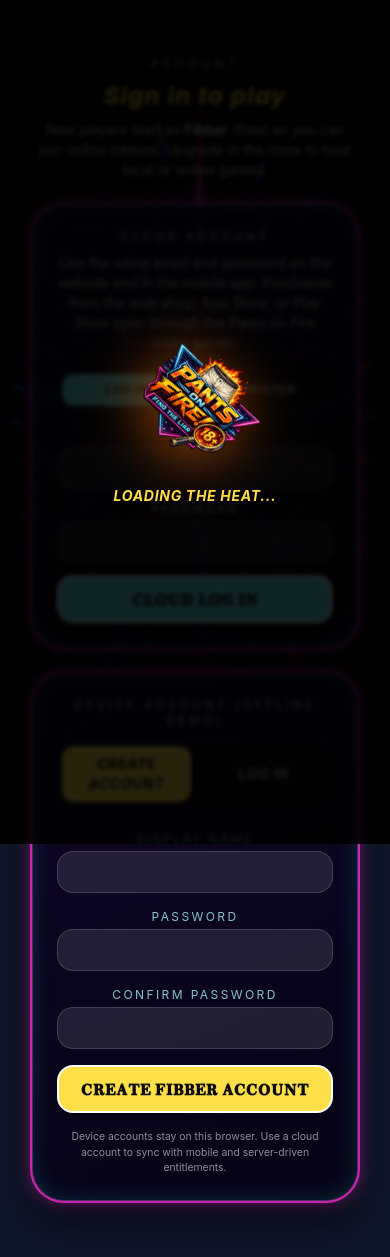
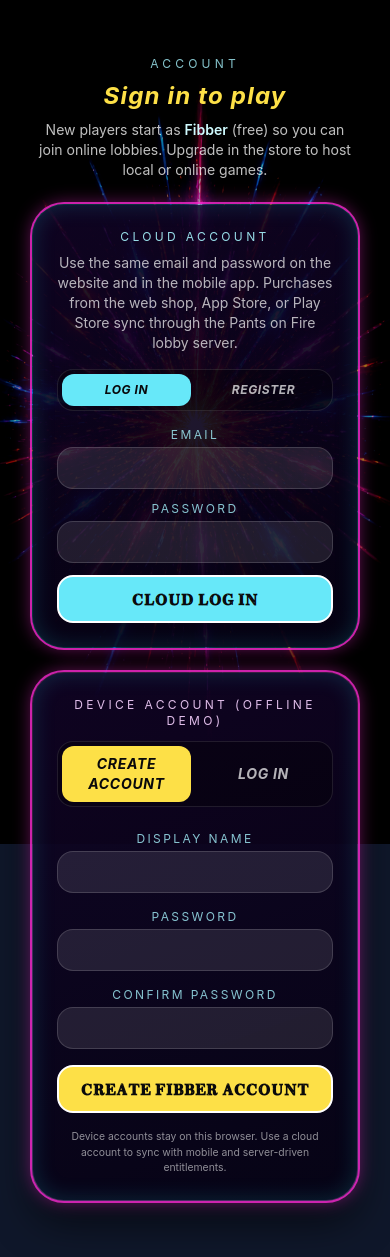
fix(web): neon assets, shop prices, capture waits for app shell
Ship neon UI WebP assets under public/assets/ui/neon. Resolve neon icon
paths to .webp; add GET /api/billing/catalog (Stripe-backed labels with
GBP defaults). Update tier copy to Stripe test prices; fix store footer
button overflow on narrow widths. Wait for startup overlay dismissal
before web-verify screenshots.

diff --git a/src/components/neon/NeonStoreScreen.jsx b/src/components/neon/NeonStoreScreen.jsx
@@ -1,4 +1,4 @@
-import React, { useCallback, useMemo, useState } from 'react';
+import React, { useCallback, useEffect, useMemo, useState } from 'react';
 import {
   ArrowLeft,
   ChevronDown,
@@ -20,6 +20,7 @@ import {
 import { CORE_THEME_NAMES, DLC_THEME_PACKS } from '../../data/themeCatalog.js';
 import { NEON_ASSETS, neonThemeVars } from '../../data/uiNeonAssets.js';
 import { readStoreSectionPrefs, writeStoreSectionPrefs } from '../../lib/storeSectionPrefs.js';
+import { fetchBillingCatalog } from '../../billing/fetchBillingCatalog.js';
 import { requestNativeEntitlementsRefresh } from '../../billing/nativePurchasesBridge.js';
 import { tapFx } from '../../lib/pofFx.js';
 import NeonStoreThemesPanel from './NeonStoreThemesPanel.jsx';
@@ -170,6 +171,26 @@ export default function NeonStoreScreen({
   const [storeNotice, setStoreNotice] = useState(null);
   const [redeemCodeInput, setRedeemCodeInput] = useState('');
   const [redeemFeedback, setRedeemFeedback] = useState(null);
+  const [billingCatalog, setBillingCatalog] = useState(null);
+
+  useEffect(() => {
+    if (!webShopMode) return;
+    void fetchBillingCatalog().then((catalog) => {
+      if (catalog) setBillingCatalog(catalog);
+    });
+  }, [webShopMode]);
+
+  const tiersForDisplay = useMemo(() => {
+    if (!billingCatalog?.tiers) return SUBSCRIPTION_TIERS;
+    return SUBSCRIPTION_TIERS.map((tier) => ({
+      ...tier,
+      priceLabel: billingCatalog.tiers[tier.tierId] || tier.priceLabel,
+    }));
+  }, [billingCatalog]);
+
+  const twistPriceLabel =
+    billingCatalog?.addonTwistTruth || ADDON_TWIST_TRUTH.priceLabel;
+  const dlcPackPriceLabel = billingCatalog?.dlcPack || '£2.99';
 
   const currentTierRank = accountSession ? TIER_RANK[accountSession.tierId] ?? 0 : 0;
   const currentTierName =
@@ -193,8 +214,8 @@ export default function NeonStoreScreen({
 
   const addonSummary = useMemo(() => {
     if (hasTwistAddon || allDlcIncluded) return 'Twist the Truth unlocked';
-    return 'Twist the Truth · 99p';
-  }, [hasTwistAddon, allDlcIncluded]);
+    return `Twist the Truth · ${twistPriceLabel}`;
+  }, [hasTwistAddon, allDlcIncluded, twistPriceLabel]);
 
   const handleRedeemSubmit = (event) => {
     event.preventDefault();
@@ -303,7 +324,7 @@ export default function NeonStoreScreen({
               </p>
             )}
             <div className="space-y-3">
-              {SUBSCRIPTION_TIERS.map((tier) => (
+              {tiersForDisplay.map((tier) => (
                 <TierCard
                   key={tier.tierId}
                   tier={tier}
@@ -334,6 +355,7 @@ export default function NeonStoreScreen({
               allDlcIncluded={allDlcIncluded}
               disableDlcDemo={disableDlcDemo && !webShopMode}
               webShopMode={webShopMode}
+              dlcPackPriceLabel={dlcPackPriceLabel}
               onWebPurchaseDlc={onWebPurchaseDlc}
               contentPackManifest={contentPackManifest}
               installedContentPackIds={installedContentPackIds}
@@ -377,7 +399,7 @@ export default function NeonStoreScreen({
               <p className="pof-desc mt-2 text-sm text-white/75">{ADDON_TWIST_TRUTH.description}</p>
               <div className="mt-3 flex items-center justify-between gap-3">
                 <span className="pof-desc text-lg font-semibold text-yellow-300">
-                  {ADDON_TWIST_TRUTH.priceLabel}
+                  {twistPriceLabel}
                 </span>
                 <button
                   type="button"
@@ -411,26 +433,26 @@ export default function NeonStoreScreen({
           >
             <button
               type="button"
-              className="pof-btn pof-btn-steel pof-focus flex w-full items-center justify-center gap-2"
+              className="pof-btn pof-btn-steel pof-focus flex w-full min-h-11 items-center justify-center gap-2 px-3 py-2.5 text-sm font-bold normal-case tracking-normal"
               onClick={() => {
                 tapFx();
                 requestNativeEntitlementsRefresh();
                 setStoreNotice('Restore requested — syncing with the App Store / Play Store…');
               }}
             >
-              <RefreshCw className="h-4 w-4" />
-              Restore purchases
+              <RefreshCw className="h-4 w-4 shrink-0" />
+              <span className="text-center leading-snug">Restore purchases</span>
             </button>
             <button
               type="button"
-              className="pof-btn pof-btn-blue pof-focus flex w-full items-center justify-center gap-2"
+              className="pof-btn pof-btn-blue pof-focus flex w-full min-h-11 items-center justify-center gap-2 px-3 py-2.5 text-sm font-bold normal-case tracking-normal"
               onClick={() => {
                 tapFx();
                 onOpenAccount?.();
               }}
             >
-              <UserCircle2 className="h-4 w-4" />
-              Account & sign-in
+              <UserCircle2 className="h-4 w-4 shrink-0" />
+              <span className="text-center leading-snug">Account & sign-in</span>
             </button>
           </div>
         </div>

diff --git a/server/billingCatalog.js b/server/billingCatalog.js
@@ -1,0 +1,88 @@
+import Stripe from 'stripe';
+import { resolveStripePriceId } from './stripeCatalog.js';
+
+const TIER_FIBBER = 'fibber';
+const TIER_LOCAL_LIAR = 'local_liar';
+const TIER_SUSPECT = 'suspect';
+const TIER_HOST_MOST = 'host_most';
+
+/** Display labels aligned with Stripe test/live Price amounts (GBP). */
+export const DEFAULT_PRICE_LABELS = {
+  [`tier:${TIER_LOCAL_LIAR}`]: '£2.99',
+  [`tier:${TIER_SUSPECT}`]: '£4.99',
+  [`tier:${TIER_HOST_MOST}`]: '£9.99',
+  'addon:twist_truth': '£1.99',
+  'dlc:pack': '£2.99',
+};
+
+function loadDisplayJson() {
+  const raw = String(process.env.STRIPE_CATALOG_DISPLAY_JSON || '').trim();
+  if (!raw) return {};
+  try {
+    return JSON.parse(raw);
+  } catch {
+    return {};
+  }
+}
+
+function formatPriceLabel(unitAmount, currency) {
+  const amount = Number(unitAmount);
+  if (!Number.isFinite(amount)) return '';
+  const cur = String(currency || 'gbp').toLowerCase();
+  if (cur === 'gbp') {
+    if (amount < 100) return `${amount}p`;
+    const pounds = amount / 100;
+    return pounds % 1 === 0 ? `£${pounds.toFixed(0)}` : `£${pounds.toFixed(2)}`;
+  }
+  return `${(amount / 100).toFixed(2)} ${cur.toUpperCase()}`;
+}
+
+function getStripe() {
+  const key = String(process.env.STRIPE_SECRET_KEY || '').trim();
+  if (!key) return null;
+  return new Stripe(key, { apiVersion: '2024-11-20.acacia' });
+}
+
+async function labelForSku(stripe, sku, kind, productId) {
+  const overrides = loadDisplayJson();
+  if (overrides[sku]) return String(overrides[sku]).trim();
+  if (DEFAULT_PRICE_LABELS[sku]) return DEFAULT_PRICE_LABELS[sku];
+
+  const priceId = resolveStripePriceId(kind, productId);
+  if (!stripe || !priceId) {
+    if (kind === 'dlc') return DEFAULT_PRICE_LABELS['dlc:pack'];
+    return '';
+  }
+  try {
+    const price = await stripe.prices.retrieve(priceId);
+    const label = formatPriceLabel(price.unit_amount, price.currency);
+    return label || DEFAULT_PRICE_LABELS[sku] || '';
+  } catch {
+    if (kind === 'dlc') return DEFAULT_PRICE_LABELS['dlc:pack'];
+    return DEFAULT_PRICE_LABELS[sku] || '';
+  }
+}
+
+/**
+ * @returns {Promise<{ tiers: Record<string,string>, addonTwistTruth: string, dlcPack: string }>}
+ */
+export async function buildBillingCatalog() {
+  const stripe = getStripe();
+  const [localLiar, suspect, hostMost, twist, dlcSample] = await Promise.all([
+    labelForSku(stripe, `tier:${TIER_LOCAL_LIAR}`, 'tier', TIER_LOCAL_LIAR),
+    labelForSku(stripe, `tier:${TIER_SUSPECT}`, 'tier', TIER_SUSPECT),
+    labelForSku(stripe, `tier:${TIER_HOST_MOST}`, 'tier', TIER_HOST_MOST),
+    labelForSku(stripe, 'addon:twist_truth', 'addon', 'twist_truth'),
+    labelForSku(stripe, 'dlc:pack', 'dlc', 'ye-olde-baloney'),
+  ]);
+  return {
+    tiers: {
+      [TIER_FIBBER]: 'Free',
+      [TIER_LOCAL_LIAR]: localLiar,
+      [TIER_SUSPECT]: suspect,
+      [TIER_HOST_MOST]: hostMost,
+    },
+    addonTwistTruth: twist,
+    dlcPack: dlcSample,
+  };
+}

diff --git a/src/account/tierModel.js b/src/account/tierModel.js
@@ -27,7 +27,7 @@ export const SUBSCRIPTION_TIERS = [
   {
     tierId: TIER_LOCAL_LIAR,
     name: 'Local Liar',
-    priceLabel: '99p',
+    priceLabel: '£2.99',
     upgradeHint: 'Includes everything in Fibber.',
     bullets: [
       'Create local pass-the-phone games.',
@@ -37,8 +37,8 @@ export const SUBSCRIPTION_TIERS = [
   {
     tierId: TIER_SUSPECT,
     name: 'Suspect',
-    priceLabel: '£1.99',
-    upgradeHint: '£1.00 upgrade if you already own Local Liar.',
+    priceLabel: '£4.99',
+    upgradeHint: 'Upgrade pricing in the store reflects what you already own.',
     bullets: [
       'Create online lobbies.',
       'Five core themes included.',
@@ -48,7 +48,7 @@ export const SUBSCRIPTION_TIERS = [
   {
     tierId: TIER_HOST_MOST,
     name: 'Host with the Most',
-    priceLabel: '£6.99',
+    priceLabel: '£9.99',
     upgradeHint: 'Previous tier price is deducted when you upgrade in the real store.',
     bullets: [
       'Every DLC theme bundle (themes, personas, tailored host dialogue).',
@@ -62,12 +62,12 @@ export const SUBSCRIPTION_TIERS = [
 export const ADDON_TWIST_TRUTH = {
   id: 'twist-truth',
   name: 'Twist the Truth',
-  priceLabel: '99p',
+  priceLabel: '£1.99',
   description: 'Unlocks the advanced category editor on its own (without Host with the Most).',
 };
 
 export const DLC_STORE_BLURB =
-  'DLC packs add three themed experiences each (host, card decks, personas, tailored dialogue) for 99p per pack. Host with the Most includes every pack.';
+  'DLC packs add three themed experiences each (host, card decks, personas, tailored dialogue) for £2.99 per pack. Host with the Most includes every pack.';
 
 /** RevenueCat entitlement / product identifiers (see server/entitlementsRoutes.js mapRevenueCatEntitlements). */
 export const REVENUE_CAT_ENTITLEMENTS = {

diff --git a/src/App.jsx b/src/App.jsx
@@ -2490,8 +2490,10 @@ function useGlobalGraphicsPreload() {
       .filter(Boolean);
     const allSources = [...coreUiSources, ...themeSources];
     preloadImageSources(allSources);
-    const maxOverlayMs = 3000;
-    const minOverlayMs = 700;
+    const fastBoot =
+      String(import.meta.env?.VITE_E2E_FAST_TIMERS || '').trim() === '1';
+    const maxOverlayMs = fastBoot ? 150 : 3000;
+    const minOverlayMs = fastBoot ? 0 : 700;
     Promise.race([
       preloadImageSourcesWithPromise(allSources),
       new Promise((resolve) => setTimeout(resolve, maxOverlayMs)),
@@ -2519,6 +2521,7 @@ function StartupPreloadOverlay({ show = false }) {
       {show && (
         <motion.div
           key="startup-preload-overlay"
+          data-testid="startup-loading-overlay"
           initial={{ opacity: 1 }}
           animate={{ opacity: 1 }}
           exit={{ opacity: 0 }}
@@ -10132,7 +10135,11 @@ export default function App() {
   ]);
 
   return (
-    <div className="pof-root min-h-[100dvh]" style={neonThemeVars()}>
+    <div
+      className="pof-root min-h-[100dvh]"
+      style={neonThemeVars()}
+      data-testid={startupGraphicsReady ? 'app-shell-ready' : undefined}
+    >
       {screen === "account-gate" && (
         <AccountGateScreen
           onSignedIn={(session) => {

diff --git a/server/stripeBillingRoutes.js b/server/stripeBillingRoutes.js
@@ -2,6 +2,7 @@ import Stripe from 'stripe';
 import { mergeEntitlementsRow, defaultEntitlements } from './entitlementsRoutes.js';
 import { resolveStripePriceId, stripePurchaseToEntitlementPatch } from './stripeCatalog.js';
 import { resolveAuthUserFromBearer } from './resolveAuthUser.js';
+import { buildBillingCatalog } from './billingCatalog.js';
 
 function getStripe() {
   const key = String(process.env.STRIPE_SECRET_KEY || '').trim();
@@ -28,6 +29,15 @@ function checkoutUrls() {
 export function mountStripeBillingRoutes(app, { store } = {}) {
   const entitlementStore = store || new Map();
   const simulate = String(process.env.POF_BILLING_SIMULATE || '').trim() === '1';
+
+  app.get('/api/billing/catalog', async (_req, res) => {
+    try {
+      const catalog = await buildBillingCatalog();
+      res.json(catalog);
+    } catch (err) {
+      res.status(500).json({ error: 'catalog-failed', detail: String(err?.message || err) });
+    }
+  });
 
   app.post('/api/billing/stripe/checkout-session', async (req, res) => {
     const stripe = getStripe();

diff --git a/src/components/neon/NeonStoreThemesPanel.jsx b/src/components/neon/NeonStoreThemesPanel.jsx
@@ -44,6 +44,7 @@ export default function NeonStoreThemesPanel({
   onUnlockThemePack = () => {},
   onWebPurchaseDlc = async () => {},
   webShopMode = false,
+  dlcPackPriceLabel = '£2.99',
   downloadByPackId = {},
 }) {
   const unlocked = useMemo(() => new Set(unlockedThemePackIds || []), [unlockedThemePackIds]);
@@ -166,7 +167,7 @@ export default function NeonStoreThemesPanel({
               {!item.isOwned && !disableDlcDemo ? (
                 <div className="mt-2">
                   <StoreActionChip
-                    label={`Buy ${item.pack.priceLabel || '99p'}`}
+                    label={`Buy ${webShopMode ? dlcPackPriceLabel : item.pack.priceLabel || dlcPackPriceLabel}`}
                     variant="amber"
                     onClick={() => {
                       if (webShopMode) void onWebPurchaseDlc(item.id);

diff --git a/src/data/uiNeonAssets.js b/src/data/uiNeonAssets.js
@@ -11,7 +11,11 @@ function bundledUiAsset(relativeUnderAssets) {
   return resolveBundledAssetSrcCore(publicAssetUrl(relativeUnderAssets));
 }
 
-const neonFile = (name) => bundledUiAsset(`ui/neon/${name}`);
+/** Neon pack ships as WebP under `public/assets/ui/neon/`. */
+const neonFile = (name) => {
+  const stem = String(name || '').replace(/\.[^.]+$/, '');
+  return publicAssetUrl(`ui/neon/${stem}.webp`);
+};
 
 export const NEON_ASSETS = Object.freeze({
   logo: bundledUiAsset('ui/logos/main-logo.png'),
@@ -50,7 +54,7 @@ export function neonThemeVars() {
     '--btn-pink': cssUrl(a.btnPink),
     '--btn-purple': cssUrl(a.btnPurple),
     '--btn-steel': cssUrl(a.btnSteel),
-    '--bar-pink': cssUrl(neonFile('bar-1.png')),
+    '--bar-pink': cssUrl(neonFile('bar-1')),
   };
 }
 

diff --git a/src/billing/fetchBillingCatalog.js b/src/billing/fetchBillingCatalog.js
@@ -1,0 +1,18 @@
+import { getLobbyApiBase } from '../lib/lobbyApiEnv.js';
+
+/** @typedef {{ tiers: Record<string,string>, addonTwistTruth: string, dlcPack: string }} BillingCatalog */
+
+/**
+ * @returns {Promise<BillingCatalog | null>}
+ */
+export async function fetchBillingCatalog() {
+  try {
+    const res = await fetch(`${getLobbyApiBase()}/billing/catalog`, {
+      headers: { Accept: 'application/json' },
+    });
+    if (!res.ok) return null;
+    return res.json();
+  } catch {
+    return null;
+  }
+}
